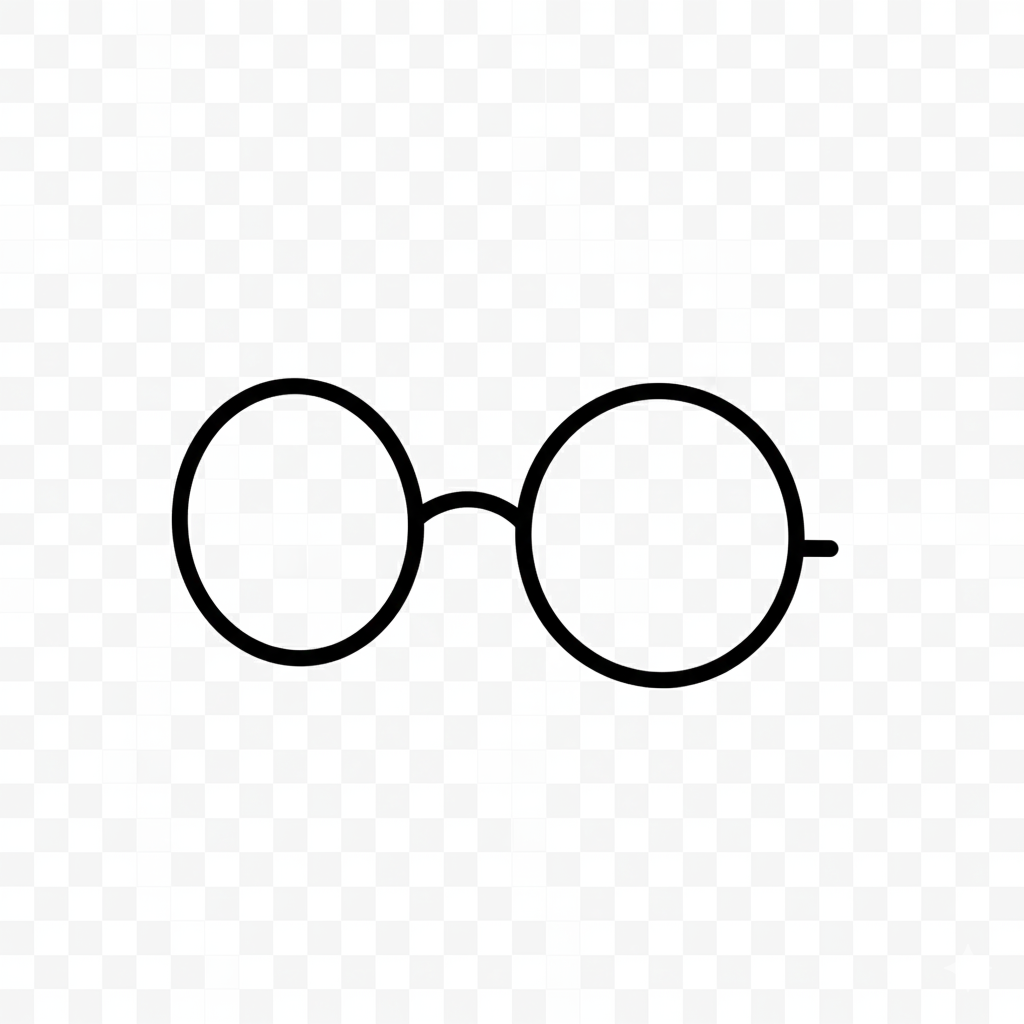
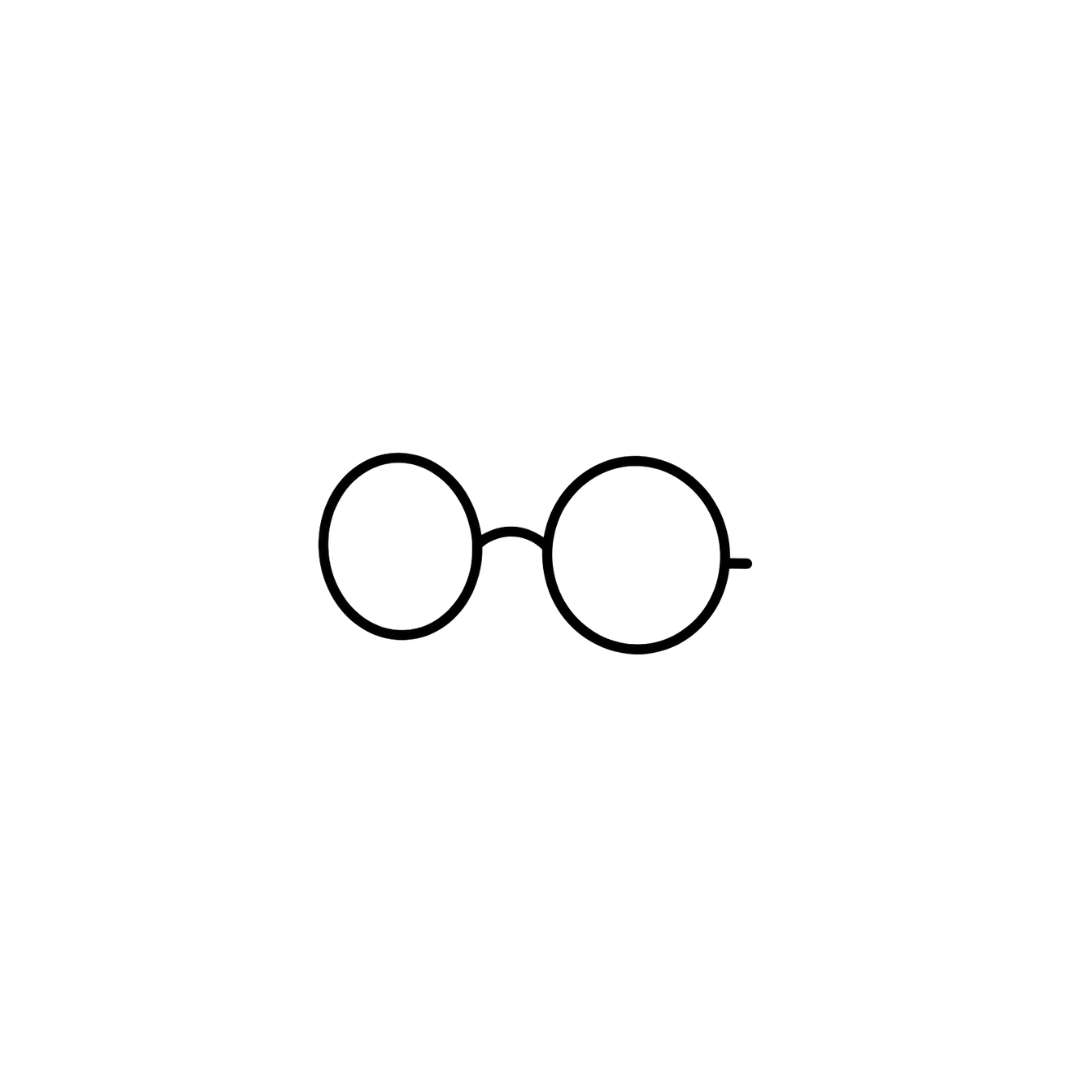
Fix character preview

diff --git a/src/components/BeeGlassesTest.tsx b/src/components/BeeGlassesTest.tsx
@@ -53,7 +53,7 @@ export default function BeeGlassesTest() {
                           width: '120px',
                           height: '120px',
                           objectFit: 'contain',
-                          transform: `translate(0px, -25px) scale(0.8)`
+                          transform: `translate(${glassesX[0] * 0.4}px, ${glassesY[0] * 0.4}px) scale(${glassesScale[0]})`
                         }}
                       />
                     </div>
